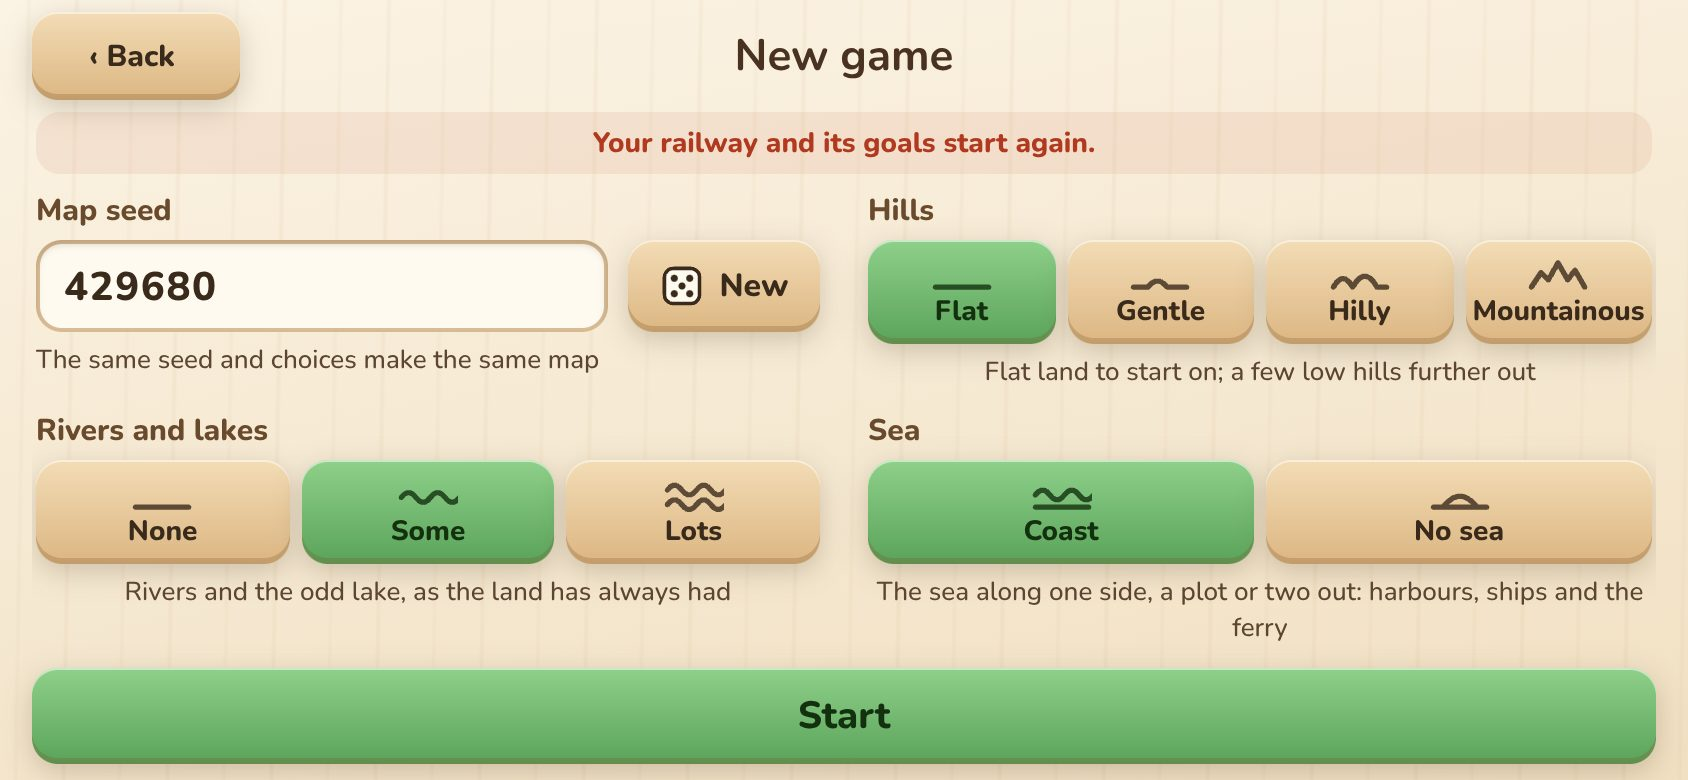
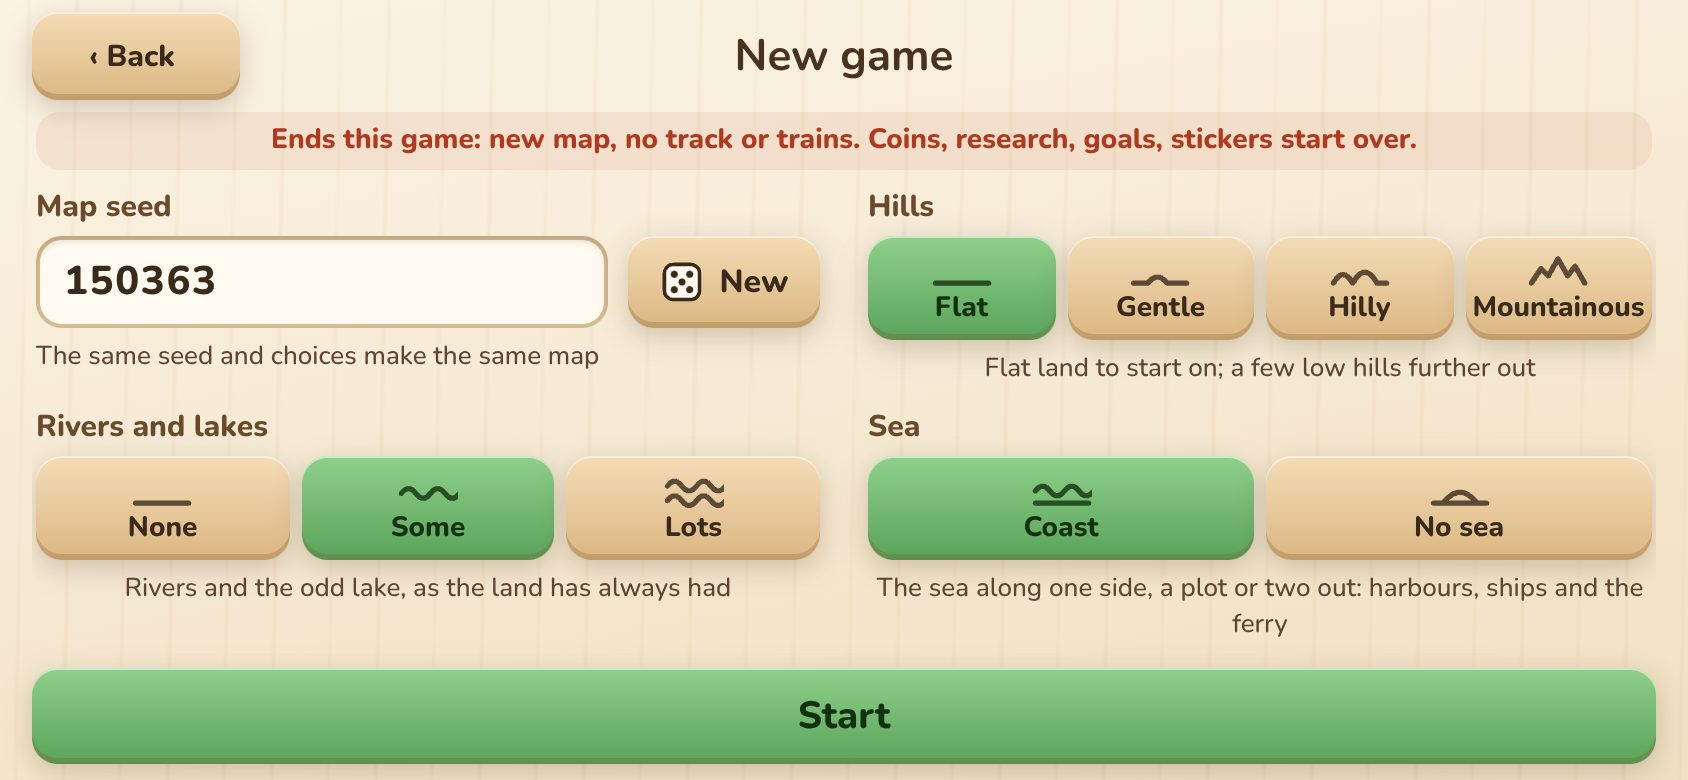
New game from ☰: say plainly what it ends
The user didn't understand "Your railway and its goals start again." What a new
game really resets (`newGame`: `resetGoals` and a fresh map): the map, its track
and trains, and the progress (coins, research, things owned), goals, stickers,
tips and the Journal; nothing of the game is kept. Now, two lines on a phone:

  Ends this game: new map, no track or trains.
  Coins, research, goals, stickers start over.

(One line on a phone on its side, where it fits across and two would push the
rows off the screen.) e2e:new-game checks the words and that they take two
lines upright; new-game-3 and 3b retaken.

Claude-Session: https://claude.ai/code/session_0121cKbn3h35WnBPcFRBomTa

diff --git a/src/style.css b/src/style.css
@@ -645,7 +645,7 @@ input, textarea, [contenteditable="true"] { -webkit-user-select: text; user-sele
 .new-game-sheet .new-game-back { height: 48px; min-width: 104px; padding: 0 16px 0 12px; }
 .new-game-title { margin: 0; font-size: 26px; color: #4a3220; text-align: center; }
 .new-game-body { flex: 1; min-height: 0; overflow-y: auto; overscroll-behavior: contain; width: min(560px, 100%); margin: 0 auto; padding: 24px 2px 16px; display: flex; flex-direction: column; justify-content: flex-start; gap: 16px; }
-.new-game-warn { margin: 0; padding: 10px 12px; border-radius: 12px; text-align: center; font-weight: 800; font-size: 15px; color: var(--warn-ink); background: rgba(176, 57, 31, 0.08); }
+.new-game-warn { margin: 0; padding: 9px 8px; border-radius: 12px; text-align: center; font-weight: 800; font-size: 14px; line-height: 1.35; white-space: pre-line; color: var(--warn-ink); background: rgba(176, 57, 31, 0.08); }
 .new-game-warn[hidden] { display: none; }
 .new-game-rows { display: flex; flex-direction: column; gap: 22px; }
 .new-game-row { display: flex; flex-direction: column; gap: 10px; }
@@ -687,7 +687,8 @@ input, textarea, [contenteditable="true"] { -webkit-user-select: text; user-sele
   .new-game-pic { width: 30px; height: 17px; }
   .new-game-blurb { font-size: 13px; min-height: 0; }
   .new-game-seed, .new-game-sheet .new-game-dice { height: 46px; }
-  .new-game-warn { padding: 6px 10px; font-size: 14px; }
+  /* (Wide enough to say it in one line: its two sentences side by side.) */
+  .new-game-warn { padding: 5px 10px; font-size: 14px; white-space: normal; }
   .new-game-sheet .new-game-foot .new-game-start { height: 48px; }
 }
 @media (prefers-reduced-motion: reduce) { .new-game-sheet:not([hidden]) { animation: none; } }

diff --git a/src/main.ts b/src/main.ts
@@ -139,7 +139,7 @@ import { hintSeen, loadChainHints, loadMuted, markHintSeen, saveChainHints, save
 import { chainOf, chainRows, partnersOf, stateWords, type PlaceOf } from "./game/chains";
 import { ChainHintsView, type HintLine, type HintRing } from "./render/chain-hints-view";
 import { TITLE_ART_PIECE, TITLE_ART_TRAIN, TitleScreen } from "./ui/title";
-import { DEFAULT_CHOICES, NewGameSheet, type NewGameChoices } from "./ui/new-game";
+import { DEFAULT_CHOICES, NEW_GAME_WARNING, NewGameSheet, type NewGameChoices } from "./ui/new-game";
 import { installClickShield } from "./ui/click-shield";
 import { startUpdateCheck } from "./ui/update-check";
 import { installFocusRing } from "./ui/focus-ring";
@@ -596,7 +596,9 @@ function boot(savedThumbnails: Map<string, string> | null, opening: ReturnType<t
       lowerHills: () => setLowering(!lowering),
       clearRuin: () => clearShownRuin(),
       restoreRuin: () => restoreShownRuin(),
-      newGame: () => askNewMap("game", "Your railway and its goals start again.", (c, seed) => newGame(c, seed)),
+      // (What `newGame` really resets, `resetGoals` and a fresh map: the map, its track and trains, and the progress
+      // (coins, research, things owned), goals, stickers, tips and the Journal. Nothing of the game is kept.)
+      newGame: () => askNewMap("game", NEW_GAME_WARNING, (c, seed) => newGame(c, seed)),
       openLines: () => openLines(),
       titleScreen: () => showTitle(),
       copyMap: () => void copyMap(),

diff --git a/src/ui/new-game.ts b/src/ui/new-game.ts
@@ -97,6 +97,9 @@ function safeStorage(): Storage | null {
   }
 }
 
+/** Said when ☰ New game is opened in play: what starting now ends (two lines on a phone). */
+export const NEW_GAME_WARNING = "Ends this game: new map, no track or trains.\nCoins, research, goals, stickers start over.";
+
 export interface NewGameAsk {
   mode: GameMode;
   /** The seed the new map would have (`newMapSeed`): shown, and the player may roll or type another. */
